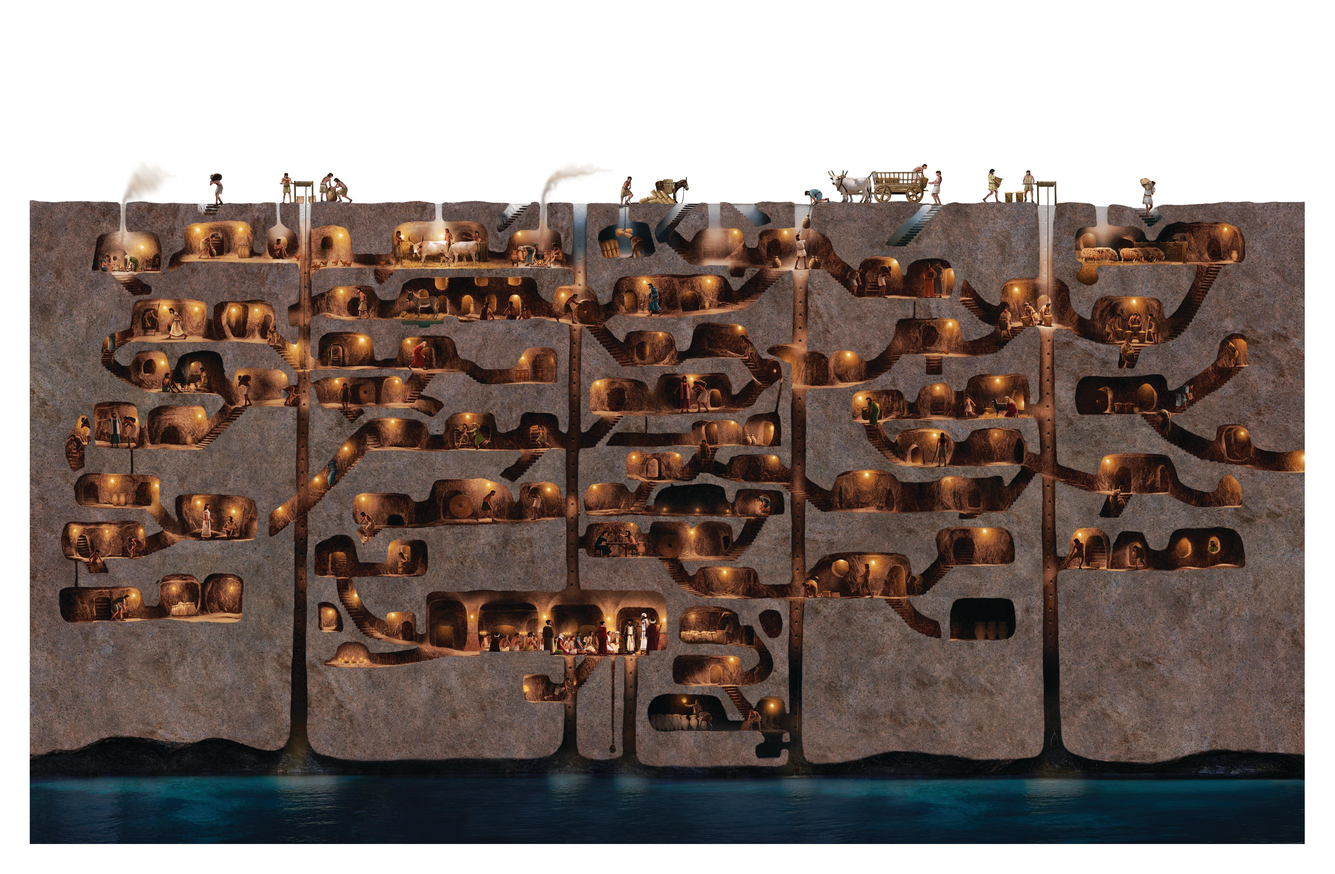
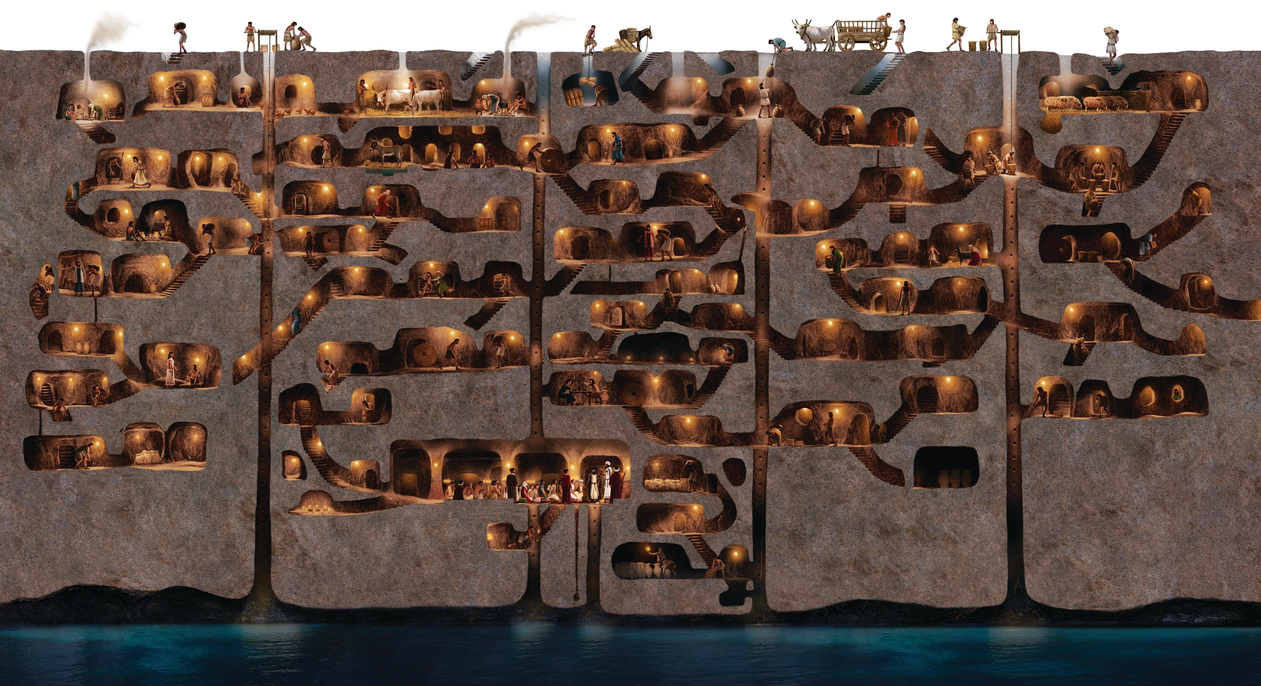
removed some extra margin and some css

diff --git a/src/app/Footers/footer/footer.component.html b/src/app/Footers/footer/footer.component.html
@@ -74,10 +74,13 @@
                                                 (click)="useLanguage('en')"><span>English</span></a>
                                 </li>
                                 <div class="mb-2"></div>
+                                <span class="material-icons float-right" (click)="goTop()">
+                                        arrow_upward
+                                </span>
                         </div>
-                        <small class="text-center mx-auto footer-tanmay mt-5">Website Crafted by&nbsp;<a
-                                        class="text-decoration-none text-footerTxt tan-fb"
-                                        href="https://www.facebook.com/tanmay.ingole" target="_blank">Tanmay Narendra
+                        <small class="text-center mx-auto footer-tanmay mt-5">Website Crafted by&nbsp;
+                                <a class="text-footerTxt tan-fb tan-hover" href="https://www.facebook.com/tanmay.ingole"
+                                        target="_blank">Tanmay Narendra
                                         Ingole</a>
                         </small>
                 </div>

diff --git a/src/app/our_destinations/offer/armenia-georgia/armenia-georgia.component.html b/src/app/our_destinations/offer/armenia-georgia/armenia-georgia.component.html
@@ -27,12 +27,12 @@
 
                         <div class="row  position-relative bor-rad-10 mb-3 rounded-lg card-shadow"
                                 *ngFor="let menu of 'armeGeo.menu'| translate">
-                                <div class="col-md-6 mb-md-0 p-md-4 ">
+                                <div class="col-md-6 mb-md-0 p-md-4 link-card">
                                         <img [src]="menu.img" class="w-100">
                                 </div>
-                                <div class="col-md-6 p-4 tanmay">
+                                <div class="col-md-6 tanmay">
                                         <h4 class="mt-0">{{menu.day}}</h4>
-                                        <p>{{menu.info}}</p>
+                                        <p class="mb-0">{{menu.info}}</p>
                                 </div>
                         </div>
                 </div>

diff --git a/src/app/our_destinations/offer/turkey-offer/turkey-offer.component.html b/src/app/our_destinations/offer/turkey-offer/turkey-offer.component.html
@@ -26,12 +26,12 @@
 
                         <div class="row position-relative bor-rad-10 mb-3 rounded-lg card-shadow"
                                 *ngFor="let menu of 'turkey.menu'| translate">
-                                <div class="col-md-6 mb-md-0 p-md-4 ">
+                                <div class="col-md-6 mb-md-0 p-md-4 link-card">
                                         <img [src]="menu.img" class="w-100">
                                 </div>
-                                <div class="col-md-6 p-4">
+                                <div class="col-md-6 tanmay">
                                         <h4 class="mt-0">{{menu.day}}</h4>
-                                        <p>{{menu.info}}</p>
+                                        <p class="mb-0">{{menu.info}}</p>
                                 </div>
                         </div>
 

diff --git a/src/app/Footers/footer/footer.component.scss b/src/app/Footers/footer/footer.component.scss
@@ -29,6 +29,22 @@ span:hover {
 .footer-tanmay:after {
   margin-left: 10px;
 }
-.text-footerTxt{
+.text-footerTxt {
   cursor: pointer;
+}
+.tan-hover {
+  text-decoration: none;
+}
+.tan-hover:hover {
+  text-decoration: underline;
+}
+.material-icons {
+  border: 1px solid;
+  padding: 4px;
+  cursor: pointer;
+  transition: all 0.3s;
+}
+.material-icons:hover {
+  transform: translate(0, -5px);
+  transition: all 0.3s;
 }

diff --git a/src/app/app.component.ts b/src/app/app.component.ts
@@ -7,4 +7,10 @@ import { Component } from '@angular/core';
 })
 export class AppComponent {
   title = 'dozamitravel';
+
+  onActivate(event: any) {
+    window.scroll(0, 0);
+    //or document.body.scrollTop = 0;
+    //or document.querySelector('body').scrollTo(0,0)
+  }
 }

diff --git a/src/app/Footers/footer/footer.component.ts b/src/app/Footers/footer/footer.component.ts
@@ -21,4 +21,8 @@ export class FooterComponent  {
     this.translate.use(language);
     this.switchLang = language;
   }
+
+  goTop() {
+    window.scroll(0, 0);
+  }
 }

diff --git a/src/app/app.component.html b/src/app/app.component.html
@@ -1,3 +1,3 @@
 <app-header></app-header>
-<router-outlet></router-outlet>
+<router-outlet (activate)="onActivate($event)"></router-outlet>
 <app-footer></app-footer>

diff --git a/src/app/our_destinations/offer/turkey-offer/turkey-offer.component.scss b/src/app/our_destinations/offer/turkey-offer/turkey-offer.component.scss
@@ -16,4 +16,11 @@
   .carousel-caption {
     padding: 5px;
   }
+
+  .link-card {
+    padding: 16px 16px 0 16px;
+  }
+}
+.tanmay {
+  padding: 16px;
 }

diff --git a/src/app/our_destinations/offer/armenia-georgia/armenia-georgia.component.scss b/src/app/our_destinations/offer/armenia-georgia/armenia-georgia.component.scss
@@ -16,4 +16,11 @@
   .carousel-caption {
     padding: 5px;
   }
+  .link-card {
+    padding: 16px 16px 0 16px;
+  }
+
+}
+.tanmay{
+  padding: 16px;
 }
